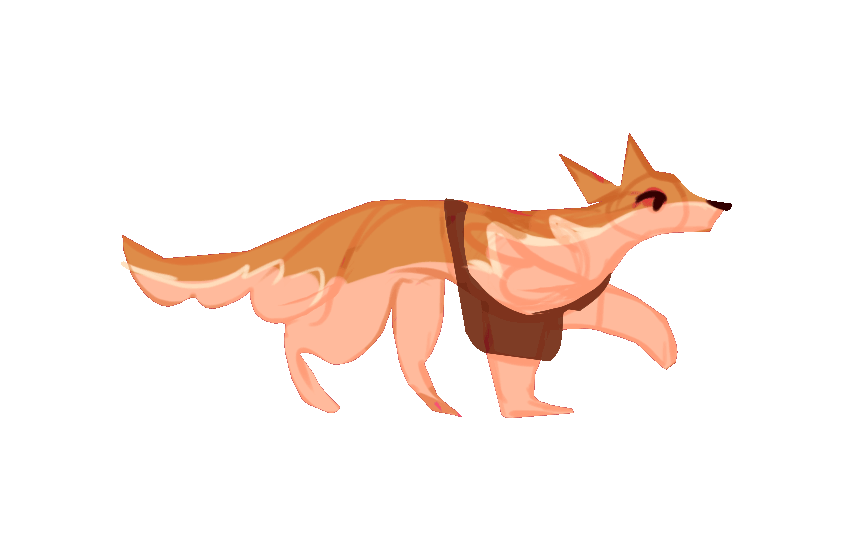
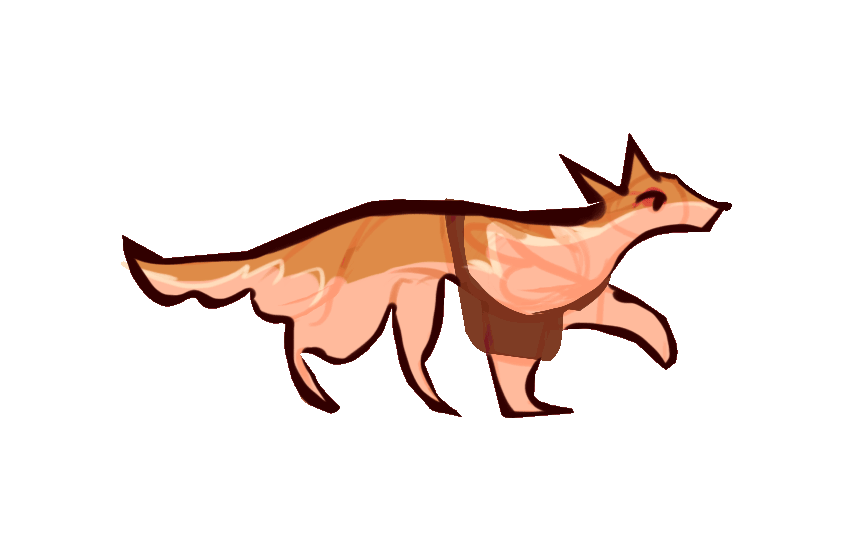
New PRD skills files and new fox

diff --git a/.claude/skills/prd-confidence/SKILL.md b/.claude/skills/prd-confidence/SKILL.md
@@ -1,0 +1,44 @@
+---
+name: prd-confidence
+description: Raise confidence in an existing PRD by finding the parts Claude is least sure about and asking the user 3–8 targeted questions, then folding the answers back into the PRD. Use when the user asks to review, clarify, de-risk, sanity-check, or "add confidence" to a PRD.
+---
+
+# PRD confidence pass
+
+Find where the PRD could be built wrong, ask about exactly those spots, and update the PRD with the answers.
+
+## 1. Pick the PRD
+- Use the PRD the user named. If they didn't name one, use the one in `PRD/` most recently discussed or modified. If it's still unclear, list `PRD/*.md` and ask.
+- Read it, plus the design doc and the code it touches, so you don't ask anything the repo already answers.
+
+## 2. Find the least-certain parts
+Go through each requirement, flow step, and acceptance check and ask: *could two reasonable engineers build this differently?* Typical weak spots:
+- Vague behaviour ("teleport", "feels responsive"): exact positions, timings, triggers.
+- Unstated edge cases: re-entry, spam input, overlapping states, what happens mid-transition.
+- Ownership seams: where this touches someone else's area and what the contract is.
+- Acceptance checks that can't actually be verified.
+- Scope creep or missing non-goals.
+
+Rank them by **impact if wrong × how unsure you are**. Drop anything you can settle from the code yourself.
+
+## 3. Ask 3–8 questions
+Scale the count to the task's complexity: **3** for a small, contained feature; **5–6** for multi-step or cross-system work; **8** only for large or ambiguous features. Never pad to reach a number.
+
+Ask them all in one message, numbered, highest-impact first. For each:
+- Quote or name the PRD line it's about.
+- Ask one concrete question.
+- Give your default assumption, so the user can answer just "yes" or "default".
+
+Format:
+```
+1. **<PRD section / line>** — <question>
+   _Default if unanswered:_ <your assumption>
+```
+Then stop and wait for answers.
+
+## 4. Fold answers back in
+- Edit the PRD in place: tighten the affected requirements, flow steps, and acceptance checks, and resolve or remove any **Open questions**.
+- Add a short `## Decisions` section at the end: one line per question → answer (mark taken defaults as "(default)").
+- Keep the PRD crisp. Rewrite lines rather than adding new paragraphs.
+- Commit just that file: `git add PRD/<file>.md && git commit -m "PRD: clarify <feature>"`.
+- Summarise what changed in 2–3 lines. If an answer revealed new major uncertainty, offer one more short round.

diff --git a/.claude/skills/prd/SKILL.md b/.claude/skills/prd/SKILL.md
@@ -1,0 +1,40 @@
+---
+name: prd
+description: Write a short, crisp PRD for the next feature before building it. Use when the user describes a feature and asks for a PRD, spec, plan, or "what you'll work through".
+---
+
+# Short PRD
+
+Produce a one-screen PRD that you will then implement against. Crisp, not exhaustive.
+
+## Before writing
+1. Read the project's design doc / README / CLAUDE.md if present, and the files the feature touches.
+2. Establish from the request + code (ask only if truly missing):
+   - **Current state**: what exists today that this builds on.
+   - **Ownership**: what is mine vs. someone else's — never plan changes to their area.
+   - **Behaviour**: the player/user-visible flow, step by step.
+   - **Edge details**: exact positions, timings, states the user called out (e.g. "arrive below the door, not touching").
+   - **Constraints**: files, tech, style limits (e.g. "all in game.js").
+
+## Output format
+# PRD: <feature>
+**Goal** — one sentence.
+**Context** — current state, 2–3 bullets.
+**Scope** — what I'm building. **Out of scope** — incl. other people's areas.
+**Flow** — numbered user-visible steps, round-trip if applicable.
+**Requirements** — numbered, each testable.
+**Acceptance criteria** — checkboxes I'll verify in-app.
+**Constraints** — files/tech limits.
+**Open questions** — only real ones; otherwise "None".
+**Tasks** — ordered checklist I'll work through.
+
+## Save and commit
+- Save the PRD to `PRD/<feature-slug>.md` at the repo root (kebab-case, e.g. `PRD/door-teleport.md`). Never leave a PRD only in chat.
+- Commit just that file: `git add PRD/<feature-slug>.md && git commit -m "PRD: <feature>"`. Stage nothing else.
+- When ticking off Tasks later, update the same file and commit it alongside the work.
+
+## Rules
+- Keep it under ~40 lines. No filler, no speculative features.
+- Every requirement maps to an acceptance check.
+- After presenting, suggest `/prd-confidence` to tighten the uncertain parts, then wait for go-ahead.
+- Once approved, work through Tasks in order, ticking them off.
